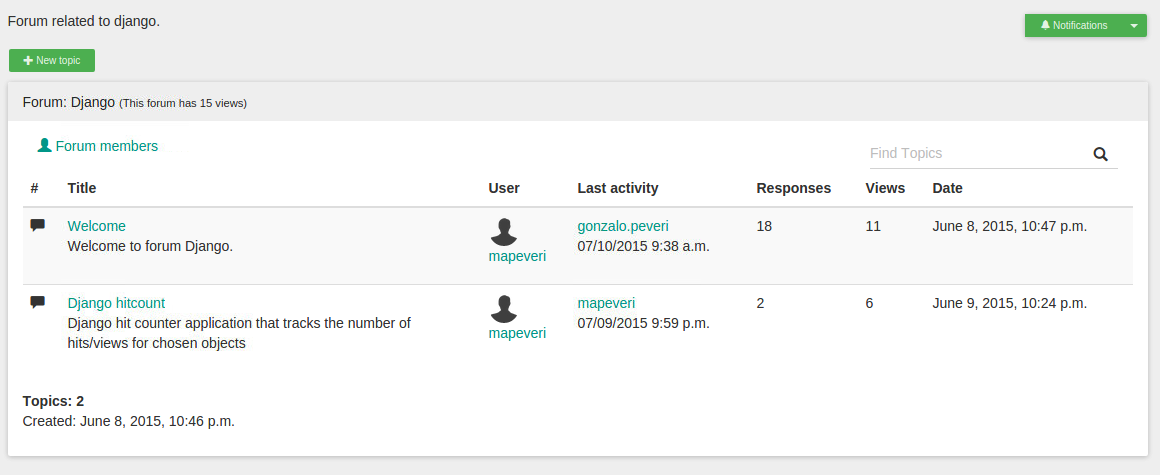
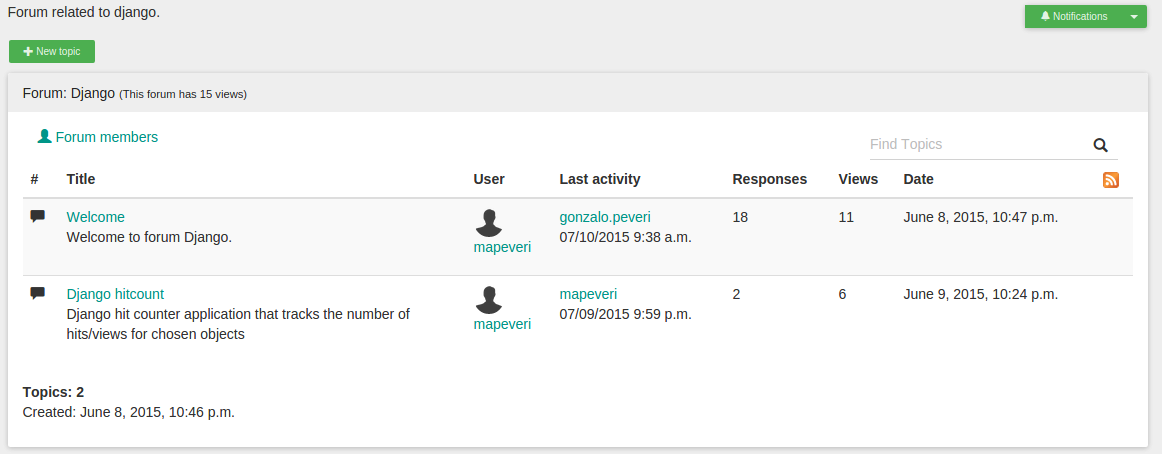
Support to rss to forum. #24

diff --git a/musette/templates/musette/forum_index.html b/musette/templates/musette/forum_index.html
@@ -93,6 +93,7 @@
 				    	<th>{% trans "Responses" %}</th>
 				    	<th>{% trans "Views" %}</th>
 				        <th>{% trans "Date" %}</th>
+				        <th><a href="/feed/{{forum}}/"><img src="{% static 'img/feed.png' %}" /></a></th>
 				      </tr>
 				    </thead>
 				    <tbody>

diff --git a/musette/templates/musette/forum.html b/musette/templates/musette/forum.html
@@ -23,6 +23,7 @@
 	        <td>{{topic.idtopic|get_tot_comments}}</td>
 	        <td>{% get_tot_views topic.idtopic %}</td>
 	        <td>{{ topic.date }}</td>
+	        <td></td>
 	    </tr>
     {% endif %}
 {% endfor %}

diff --git a/musette/urls.py b/musette/urls.py
@@ -1,6 +1,7 @@
 from django.conf.urls import include, url
 from django.contrib.auth.decorators import login_required
 
+from .feeds import TopicFeed
 from .views import (
     ForumsView, ForumView, TopicView, NewTopicView,
     EditTopicView, DeleteTopicView, NewCommentView,
@@ -8,6 +9,7 @@ from .views import (
     SetNotifications, AddRegisterView, UnregisterView,
     UsersForumView, TopicSearch
 )
+
 
 urlpatterns = [
     # Url for django-hitcount
@@ -49,7 +51,8 @@ urlpatterns = [
         login_required(DeleteCommentView.as_view()), name='removecomment'
     ),
     url(
-        r'^forum_all_notification/$', login_required(AllNotification.as_view()),
+        r'^forum_all_notification/$', login_required(
+            AllNotification.as_view()),
         name='forum_all_notification'
     ),
     url(
@@ -57,11 +60,13 @@ urlpatterns = [
         name='forum_set_notifications'
     ),
     url(
-        r'^new_register/(?P<forum>.+)/$', login_required(AddRegisterView.as_view()),
+        r'^new_register/(?P<forum>.+)/$', login_required(
+            AddRegisterView.as_view()),
         name='new_register'
     ),
     url(
-        r'^unregister/(?P<forum>.+)/$', login_required(UnregisterView.as_view()),
+        r'^unregister/(?P<forum>.+)/$', login_required(UnregisterView.as_view()
+                                                       ),
         name='unregister'
     ),
     url(
@@ -69,6 +74,10 @@ urlpatterns = [
         name='users_forum'
     ),
     url(
-        r'^search_topic/(?P<forum>.+)/$', TopicSearch.as_view(), name='search_topic'
+        r'^search_topic/(?P<forum>.+)/$', TopicSearch.as_view(),
+        name='search_topic'
+    ),
+    url(
+        r'^feed/(?P<forum>.+)/$', TopicFeed(), name='rss'
     ),
 ]

diff --git a/musette/feeds.py b/musette/feeds.py
@@ -1,0 +1,35 @@
+from django.contrib.syndication.views import Feed
+from django.core.urlresolvers import reverse
+from django.shortcuts import get_object_or_404
+
+from .models import Forum, Topic
+
+
+class TopicFeed(Feed):
+    # attr basic of feed
+    title = 'Forum rss'
+    description = 'Feed for forums'
+
+    def get_object(self, request, *args, **kwargs):
+        return kwargs['forum']
+
+    def items(self, forum):
+        forum = get_object_or_404(Forum, name=forum)
+        return Topic.objects.filter(forum_id=forum.idforum)
+
+    def item_link(self, item):
+        return reverse("topic", args=[
+            item.forum.name, item.slug, item.idtopic]
+        )
+
+    def link(self, item):
+        return "/feed/" + item + "/"
+
+    def item_title(self, item):
+        return item.title
+
+    def item_description(self, item):
+        return item.description
+
+    def item_pubdate(self, item):
+        return item.date
